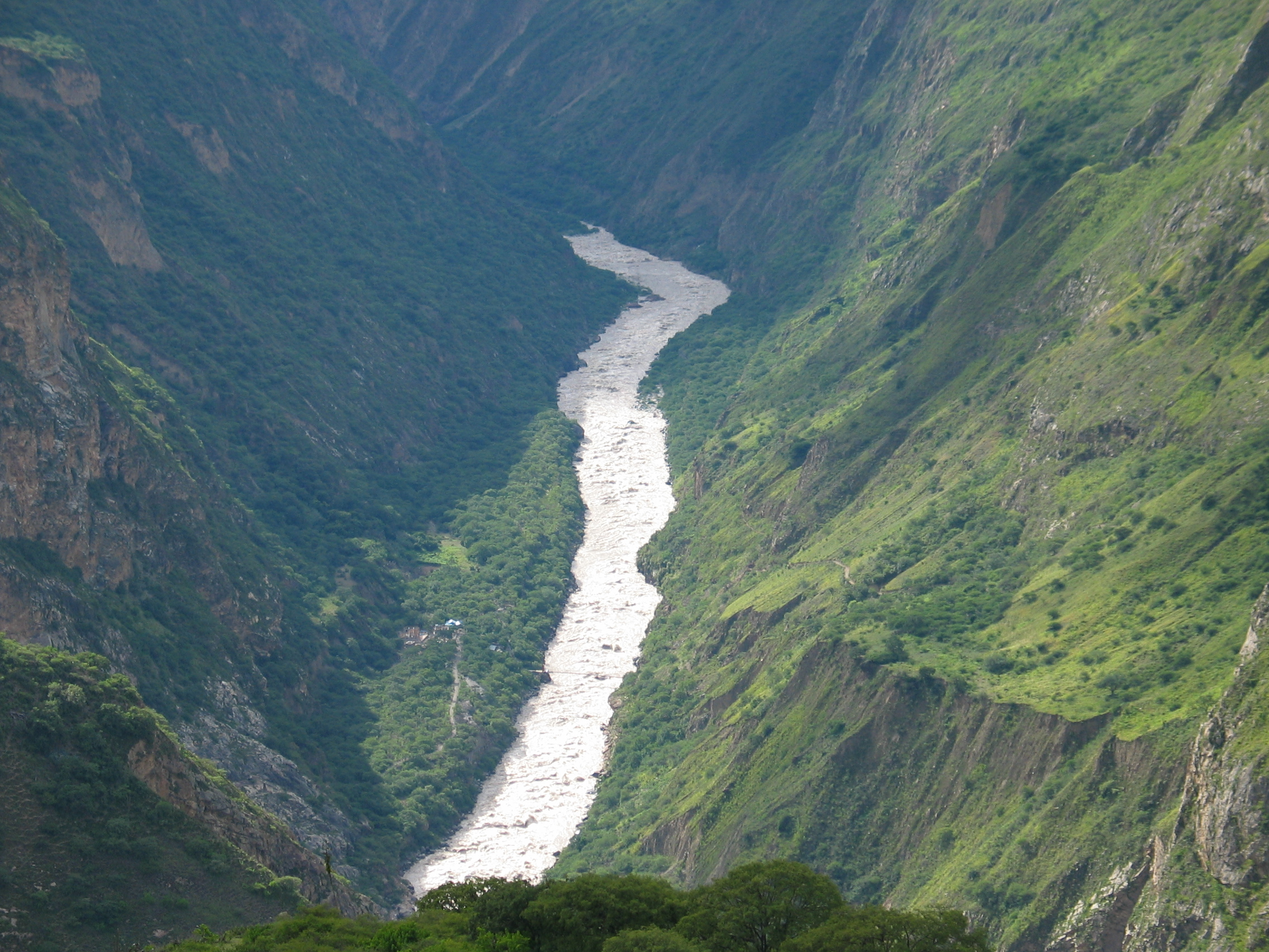
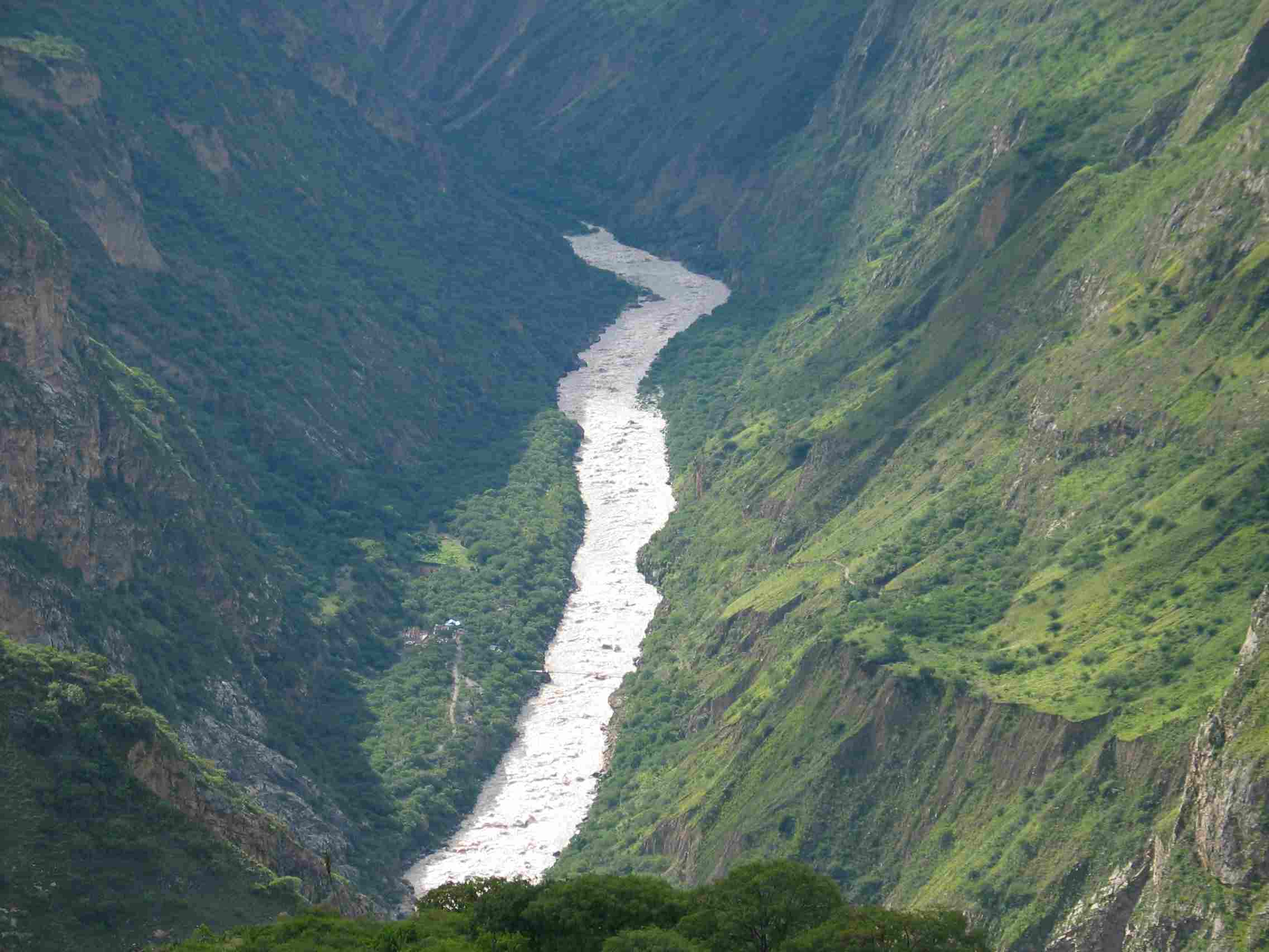
afteraudit

diff --git a/wwr/about.html b/wwr/about.html
@@ -82,7 +82,7 @@
                     <figcaption>Colca Canyon</figcaption>
                 </figure>
                 <figure>
-                    <img src="images/ollantaytambo-sacred-valley.jpg"
+                    <img src="images/ollantaytambo.jpg"
                       alt="Rafters on the Urubamba River near Ollantaytambo in the Sacred Valley">
                     <figcaption>Sacred Valley – Ollantaytambo</figcaption>
                 </figure>
